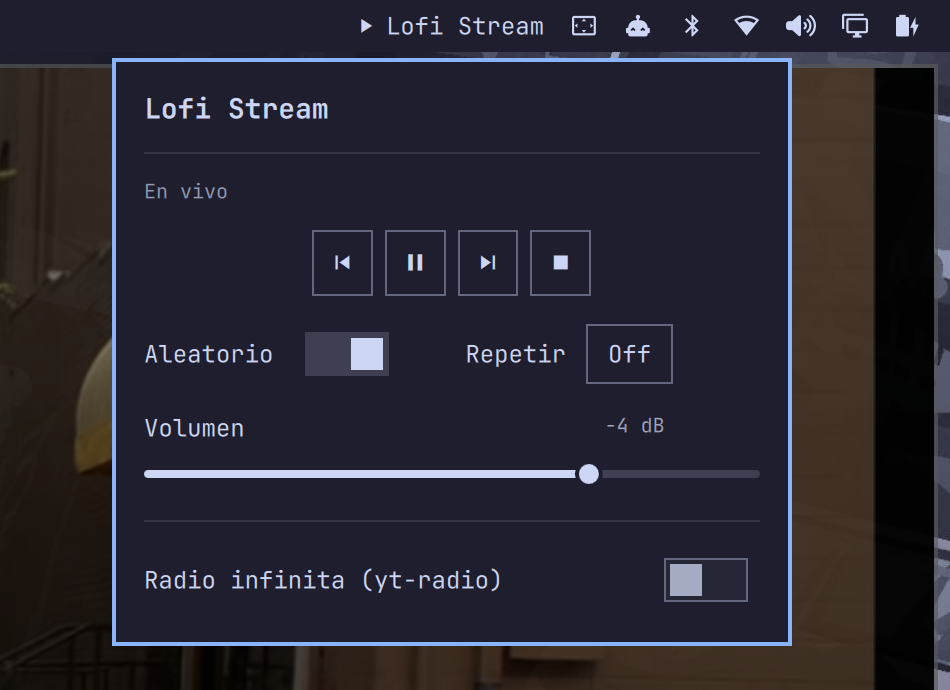
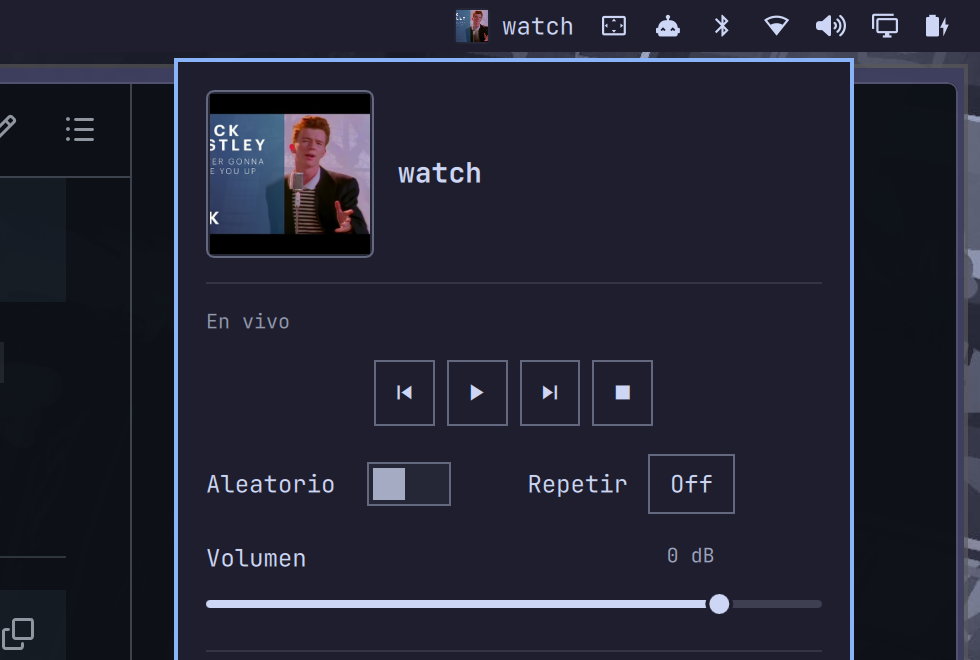
docs: document cover art + showBarThumbnail; refresh preview
Claude-Session: https://claude.ai/code/session_01V5bw8JuTryynTA3qo4Yf6e

diff --git a/README.md b/README.md
@@ -10,14 +10,18 @@ loaded, and IPC methods for Hyprland keybinds.
 
 ## Features
 
-- **Bar item** — transport glyph + scrolling `Artist — Title`. It reads
-  `cliamp status --json` on an interval; no `playerctl`, no extra daemons.
+- **Bar item** — cover thumbnail (or transport glyph) + scrolling `Artist — Title`.
+  It reads `cliamp status --json` on an interval; no `playerctl`, no extra daemons.
   - left click — play / pause (`cliamp toggle`)
   - middle click — next track
   - right click — open / close the panel
   - scroll — volume ±1 dB
-- **Panel** — seekable progress bar (or "En vivo" for streams), prev / play-pause
-  / next / stop, shuffle and repeat, a volume slider, and the yt-radio toggle.
+- **Panel** — 84px cover art, seekable progress bar (or "En vivo" for streams),
+  prev / play-pause / next / stop, shuffle and repeat, a volume slider, and the
+  yt-radio toggle.
+- **Cover art** — for YouTube / YouTube Music tracks the video id in `track.path`
+  becomes an `i.ytimg.com` thumbnail; local files use cliamp's embedded
+  `album_art_url`; radio streams fall back to a glyph.
 - **yt-radio** — a switch bound to `cliamp plugins call yt-radio status|toggle`.
   Disabled while cliamp is not running, because cliamp only loads Lua plugins in
   the TUI (not in `cliamp --daemon`).
@@ -52,6 +56,7 @@ Set from the Omarchy menu → Setup → Bar, or in `~/.config/omarchy/shell.json
 | `showArtist` | boolean | `true` | Show `Artist — Title` instead of just the title. |
 | `hideWhenStopped` | boolean | `false` | Remove the widget from the bar while cliamp is not running. |
 | `showYtRadioDot` | boolean | `true` | Accent dot next to the icon while yt-radio is active. |
+| `showBarThumbnail` | boolean | `true` | Show the cover thumbnail in the bar instead of the glyph (falls back to the glyph when there's no art). |
 
 Two extra keys are read from `shell.json` but not shown in the settings form
 (rarely needed): `cliampPath` (default `cliamp`) and `ytRadioPlugin` (default
